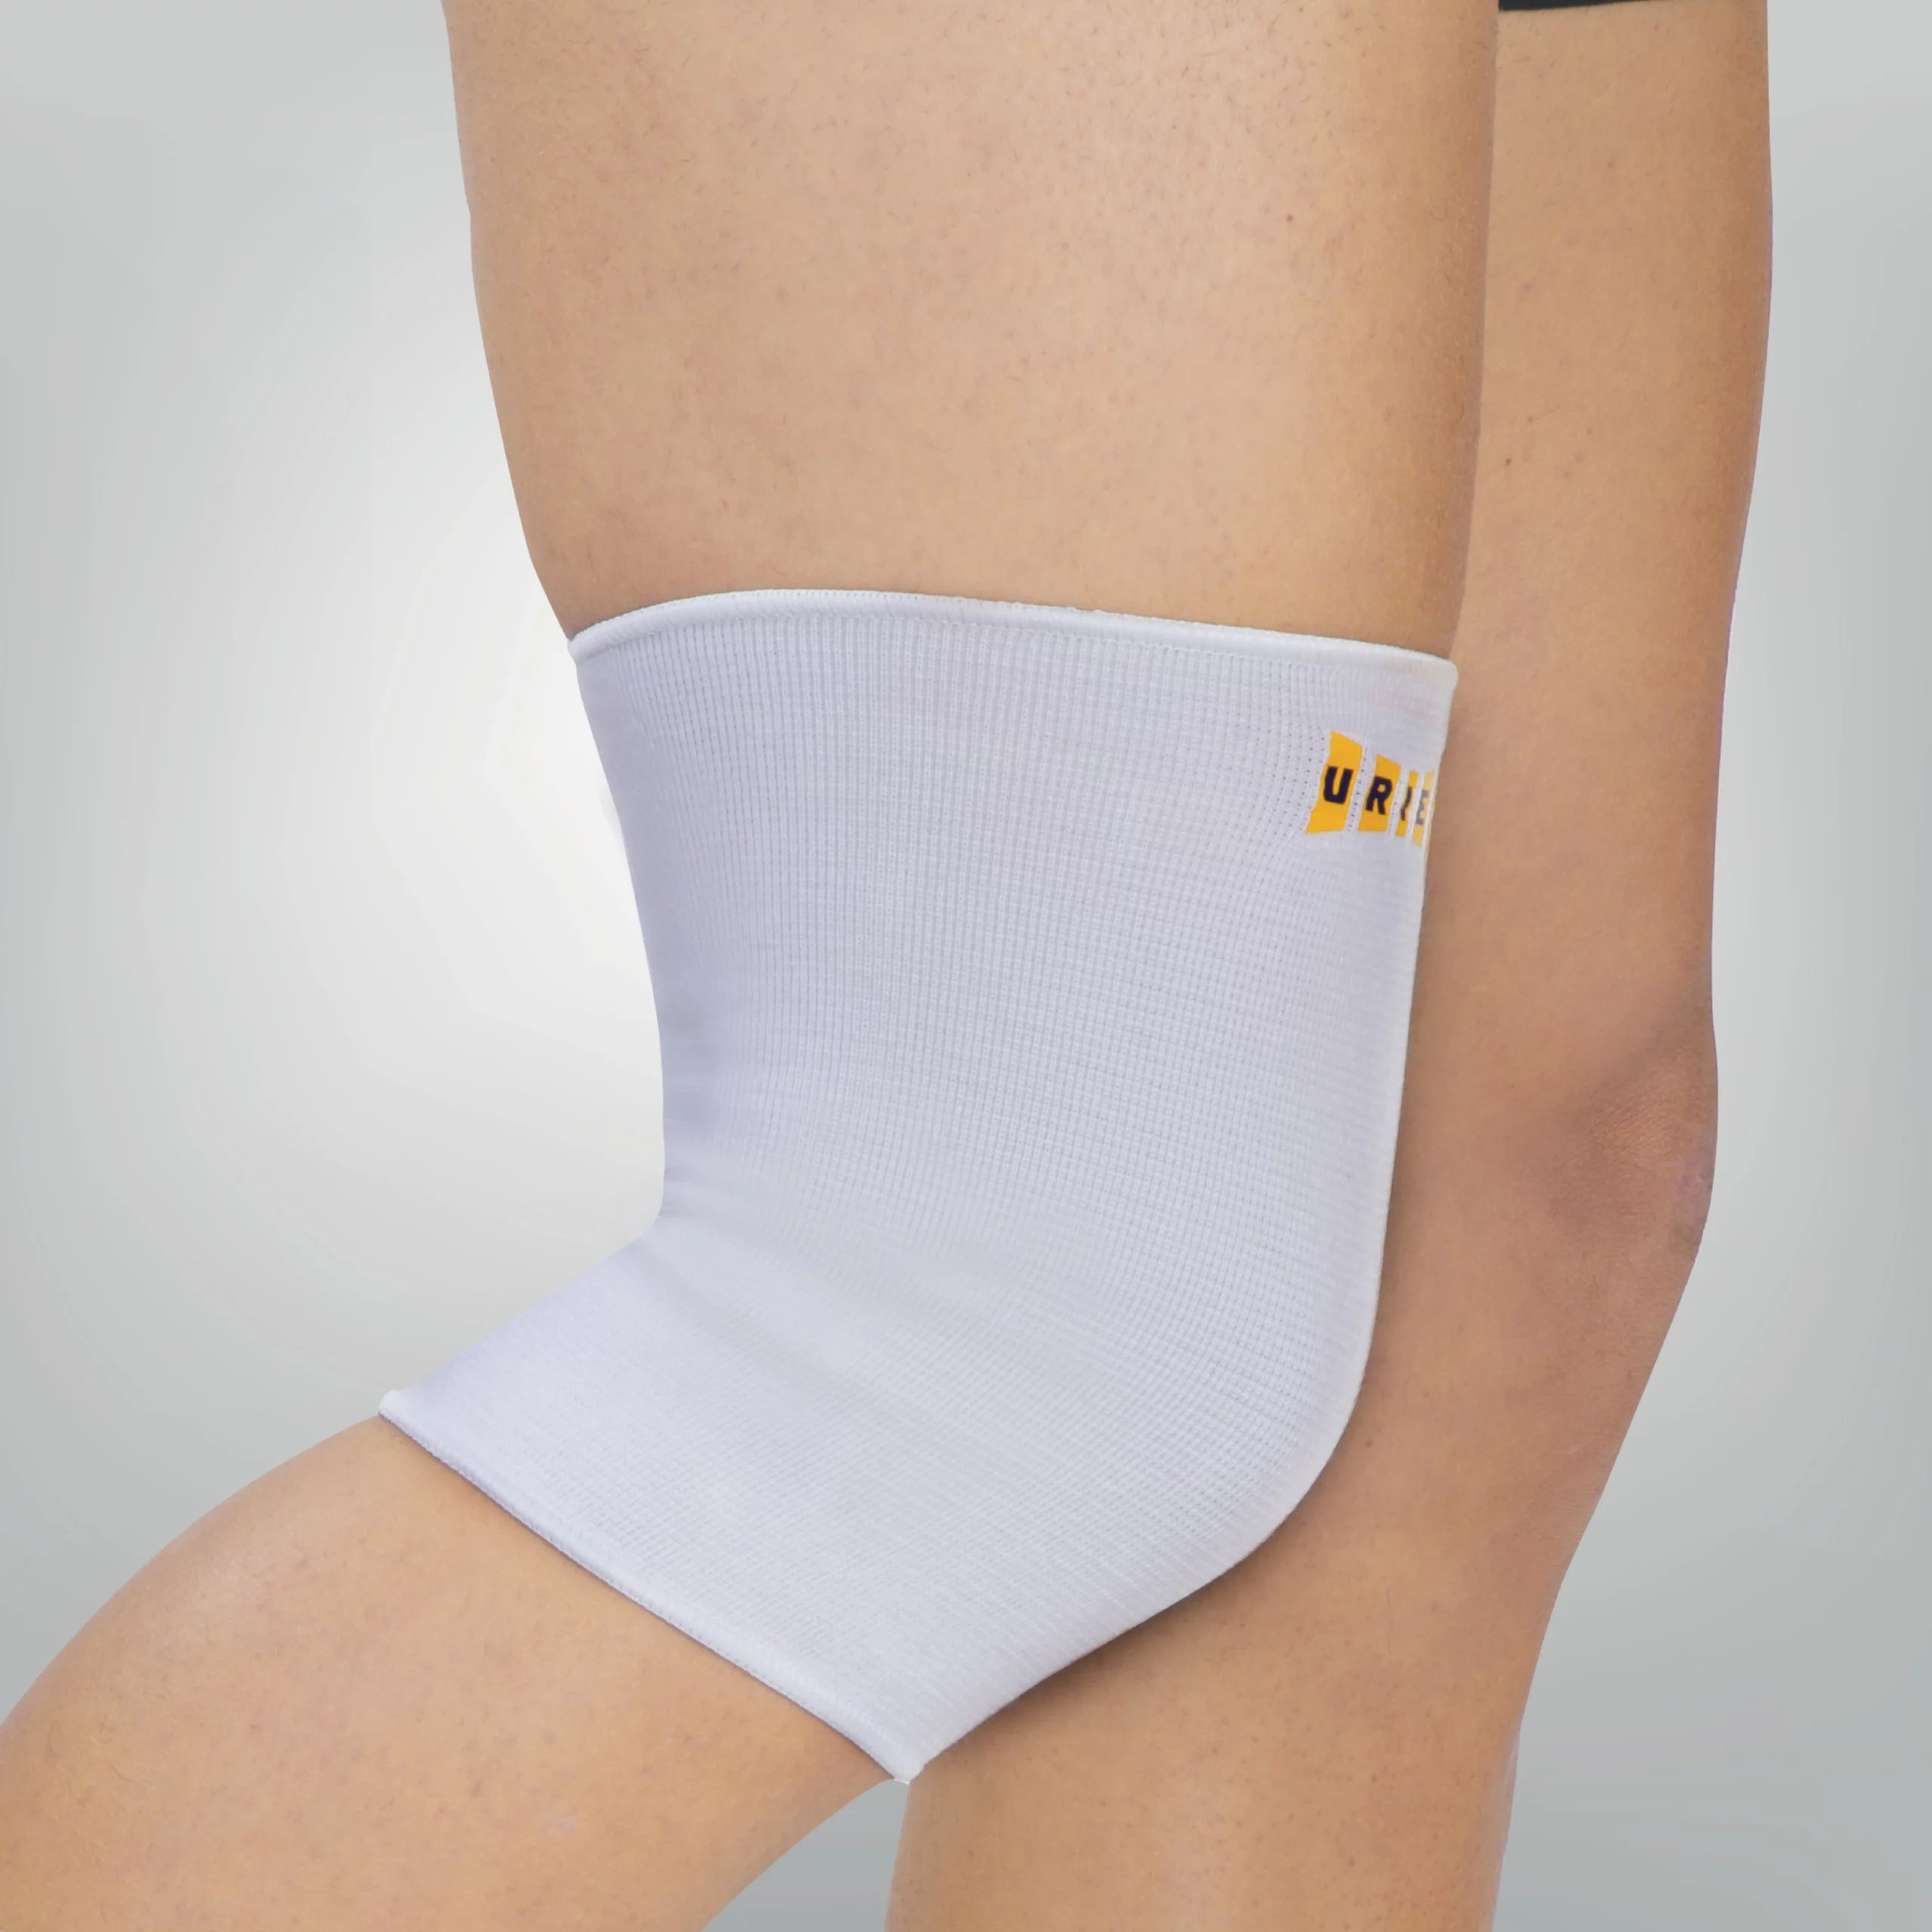
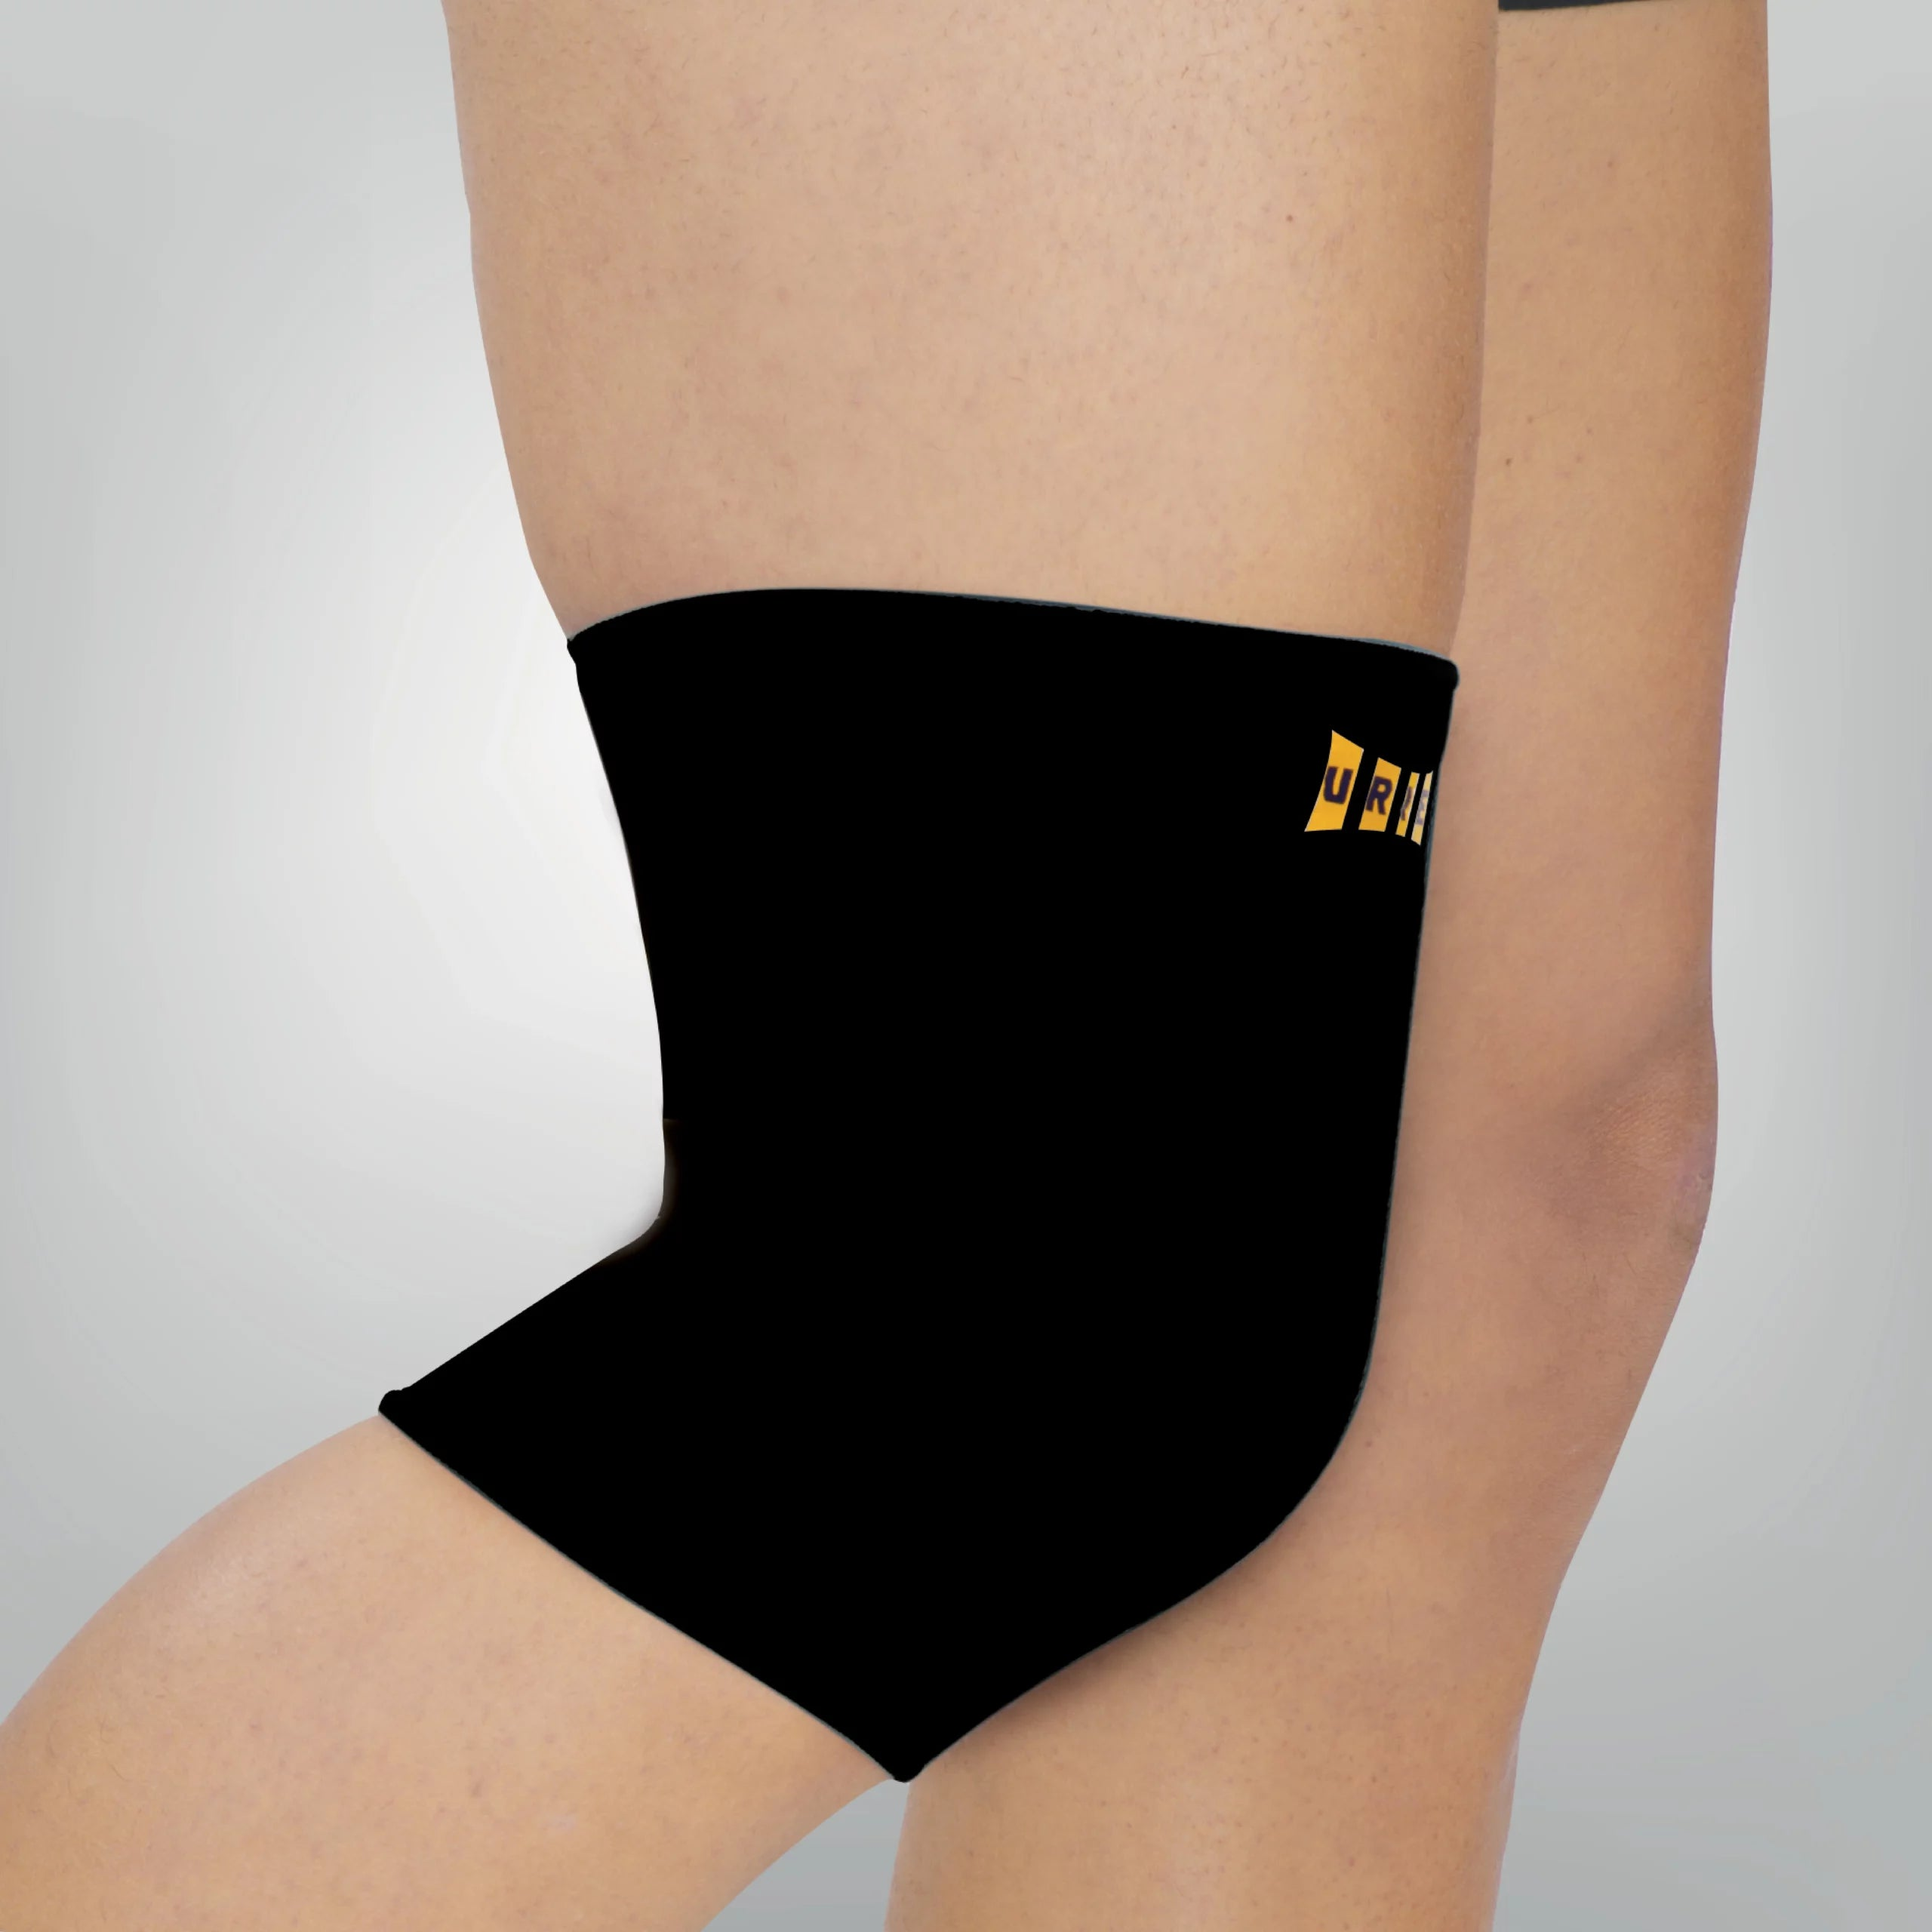
Fix color-variant images in כוורת catalog
35/35B/35C, 45/45B, and 95/95B/95C are color variants (white/black/
cream) of the same base product on URIEL's site, and the SKU matcher
picked one shared image for all variants of a product instead of the
per-variant photo. Fixed by mapping each SKU to its own variant image
via the product's variant_ids->image association.

Also added a real product photo for SC34+ (provided by the user), which
previously had no live-site match and showed a placeholder.

Claude-Session: https://claude.ai/code/session_01E9QvuhBZminJvrtKVH8YY8

Changed region(s): [[0.1875, 0.2812, 0.7812, 0.9375]]

diff --git a/kirill/outputs/2026-09-28-כוורת/index.html b/kirill/outputs/2026-09-28-כוורת/index.html
@@ -123,7 +123,7 @@ const ortho = [
   {base:'SC39', field:'אורתופדיה', product:'ספורט', consumer:349.9, yarpa:218.6765661716914, img:'SC39.jpg'},
   {base:'SC422', field:'אורתופדיה', product:'ספורט', consumer:299.9, yarpa:187.4281285935703, img:'SC422.jpg'},
   {base:'SC95', field:'אורתופדיה', product:'ספורט', consumer:199.9, yarpa:124.93125343732814, img:'SC95.jpg'},
-  {base:'SC34+', field:'אורתופדיה', product:'ספורט', consumer:299.9, yarpa:187.4281285935703, img:null},
+  {base:'SC34+', field:'אורתופדיה', product:'ספורט', consumer:299.9, yarpa:187.4281285935703, img:'SC34.jpg'},
 ];
 
 const feet = [
